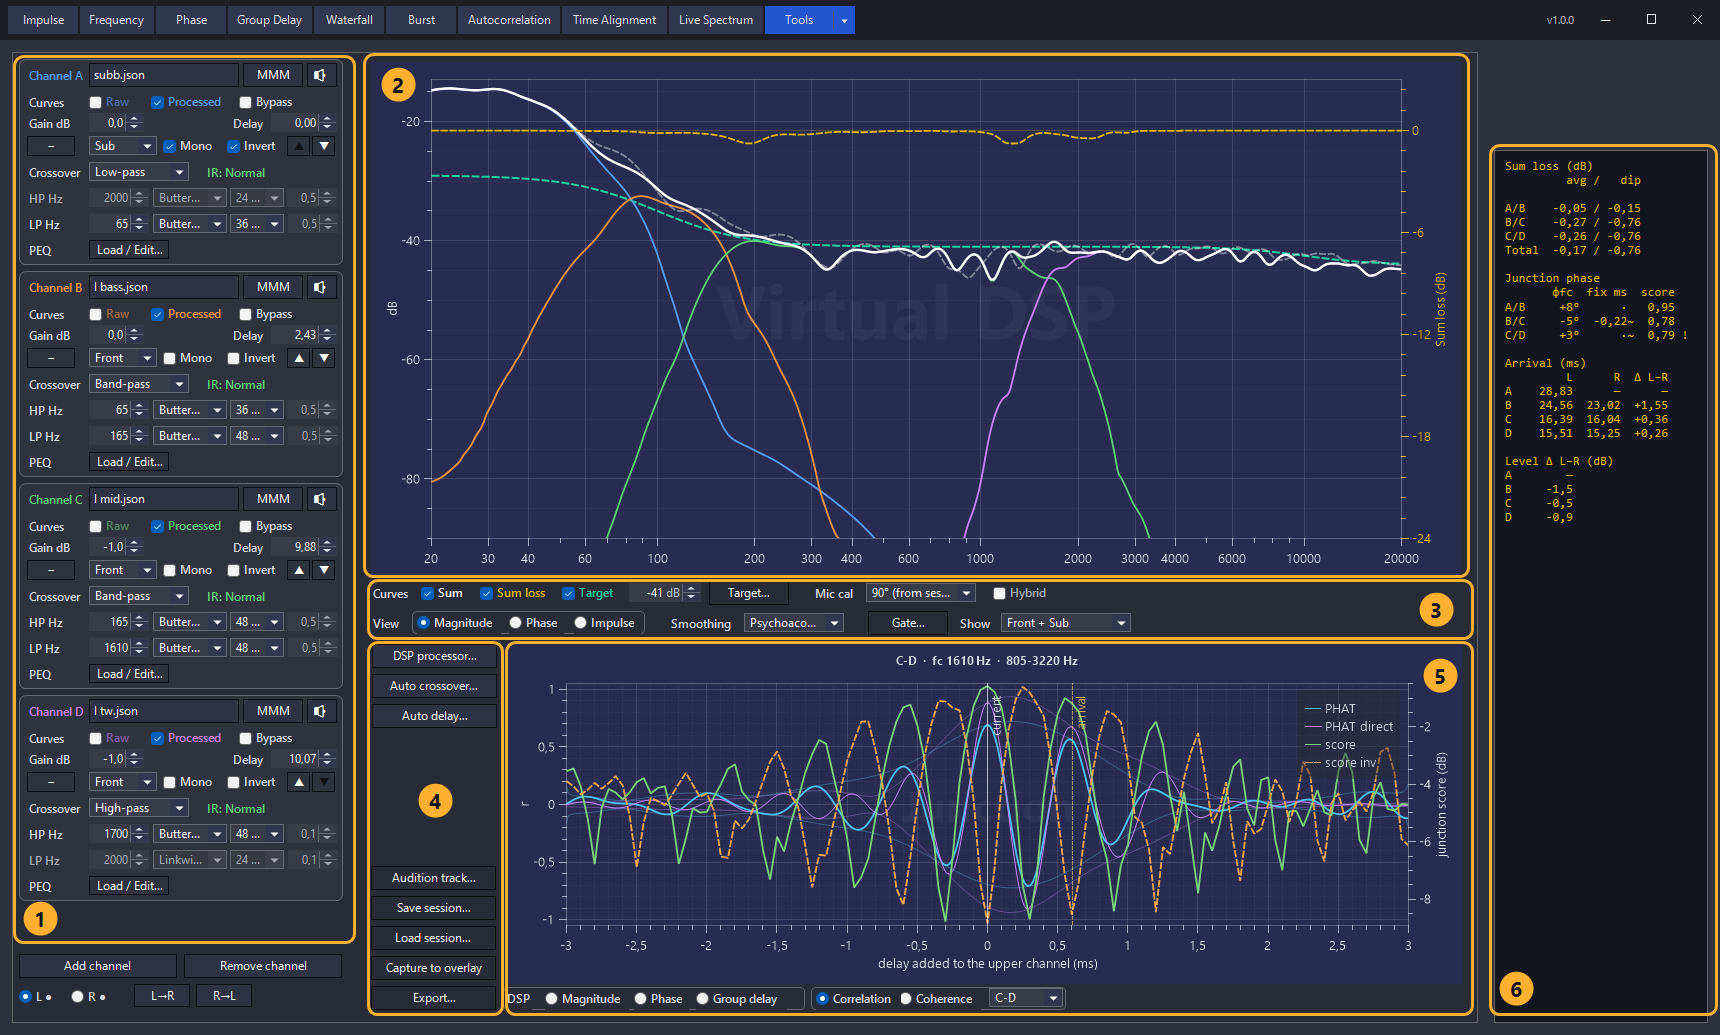
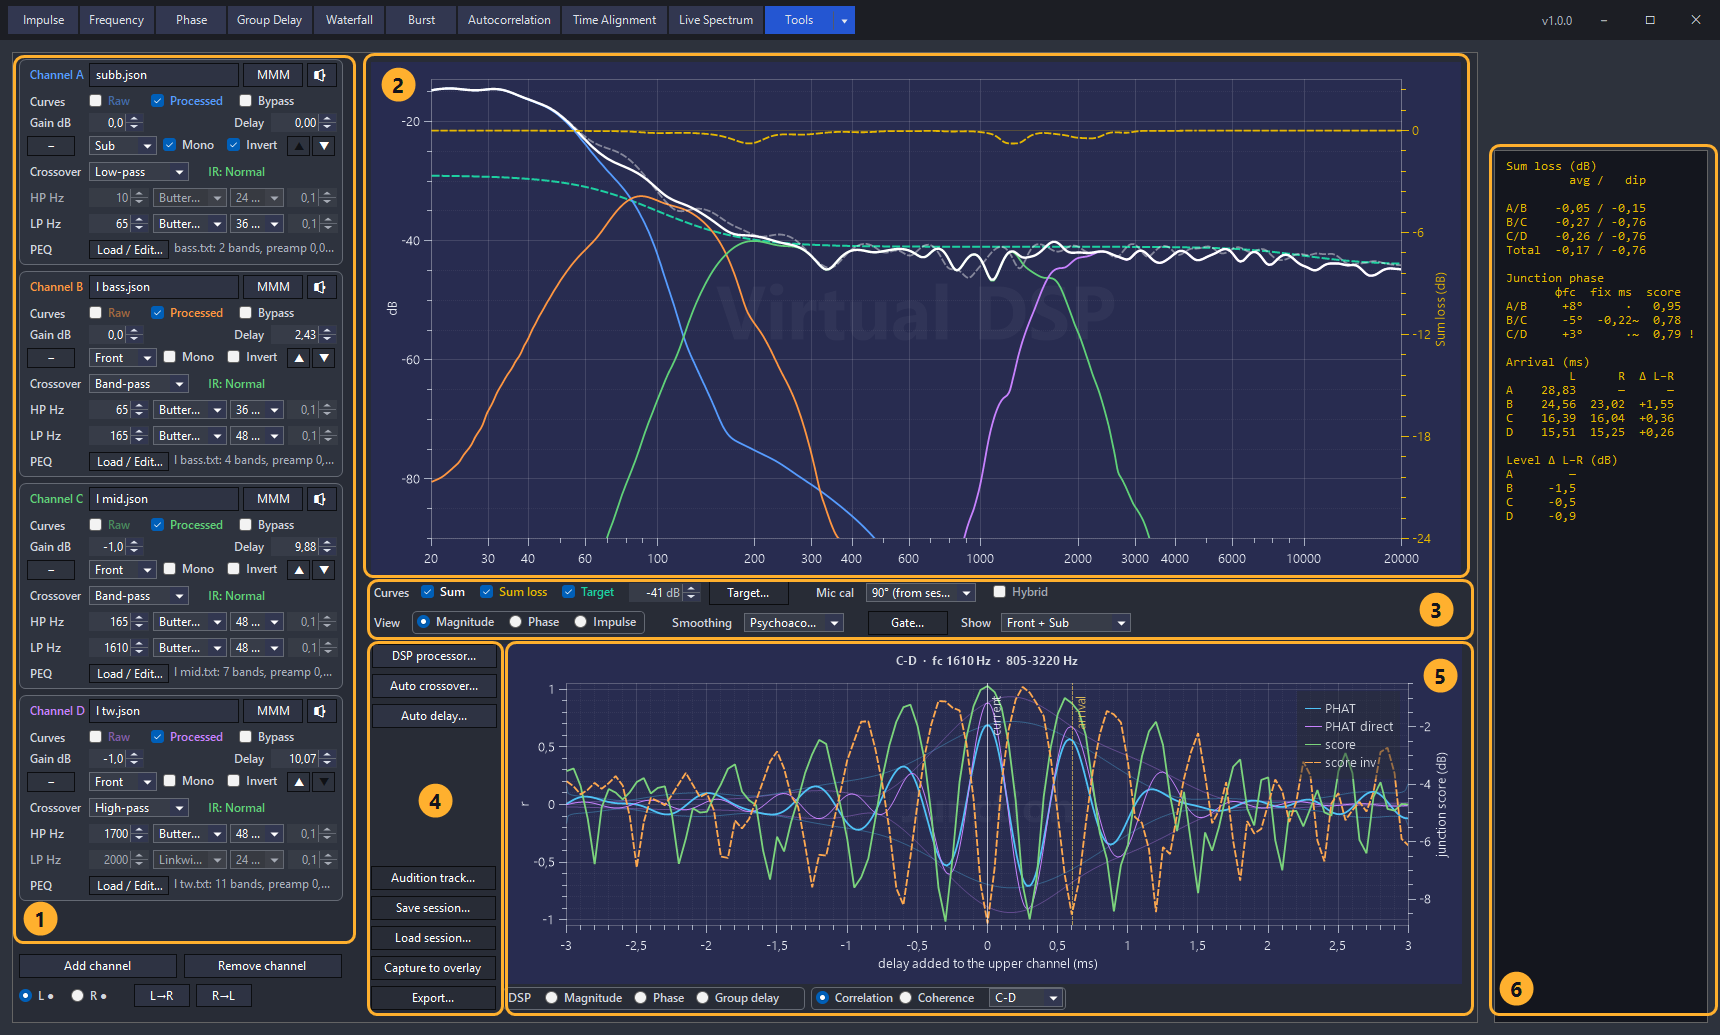
Shoot the figures of the application the user actually runs
The Virtual DSP figure came back from the re-shoot with the PEQ read-out
blank on every block, where it used to name the loaded profile. I reported
that as a regression somebody else had merged. It was not: the application
has been drawing it all along, and the tool was not drawing the application.

Program.cs calls ApplicationConfiguration.Initialize(), which among other
things sets the default text renderer to GDI. The screenshot tool sets visual
styles and the DPI mode by hand and never called it, so every control it
built took the GDI+ renderer instead. The two measure differently, and one
label fell through the gap: AutoEllipsis on a fixed-size label asks GDI+ for
StringFormatFlags.LineLimit — draw only the lines that fit ENTIRELY — and the
box is 15 pixels around a 16-pixel line, so no line fitted and nothing was
drawn at all. The control still reported its text, its colour and Visible,
which is why it took a pixel count to see. Under GDI the same box clips the
descenders and shows the text, which is what everyone but the tool sees.

So the tool initialises text rendering the way the app does, and its figures
are of the app again. Proved by re-shooting with ONLY that change: the
read-out returns at the old 15-pixel height.

The three fixed-size ellipsis labels in the app — the block's PEQ read-out and
the Audition dialog's two file names — are given room for their line anyway. A
box under its own line height is wrong under either renderer, and it is a trap
[…]

diff --git a/tests/Resonalyze.App.Tests/EllipsisLabelHeightTests.cs b/tests/Resonalyze.App.Tests/EllipsisLabelHeightTests.cs
@@ -1,0 +1,92 @@
+using System.Windows.Forms;
+
+namespace Resonalyze.App.Tests;
+
+/// <summary>
+/// A label that clips its text with an ellipsis must be at least as tall as one
+/// line of its own font.
+/// </summary>
+/// <remarks>
+/// <see cref="Label.AutoEllipsis"/> on a fixed-size label asks GDI+ for
+/// <c>StringFormatFlags.LineLimit</c>: draw only the lines that fit ENTIRELY
+/// inside the layout rectangle. A box one pixel shorter than the line height
+/// therefore does not clip the descenders — it draws NOTHING, silently, and the
+/// control still reports its Text, its ForeColor and Visible = true. Nothing
+/// short of looking at the pixels tells you.
+/// <para>
+/// That is how the Virtual DSP block's PEQ read-out and the Audition dialog's two
+/// file names went blank: 15-pixel boxes around a Segoe UI 9pt line that measures
+/// 16. Height and font scale together with the display, so a box that clears the
+/// line at 96 DPI clears it everywhere — which is exactly what this asserts.
+/// </para>
+/// </remarks>
+public sealed class EllipsisLabelHeightTests
+{
+    // The controls that carry such a label and can be built without a session,
+    // an audio device or the whole shell.
+    public static TheoryData<string> Hosts() =>
+        new()
+        {
+            nameof(VirtualCrossoverChannelControl),
+            nameof(VirtualCrossoverAuditionDialog)
+        };
+
+    private static Control Build(string name) => name switch
+    {
+        nameof(VirtualCrossoverChannelControl) => new VirtualCrossoverChannelControl(),
+        nameof(VirtualCrossoverAuditionDialog) =>
+            new VirtualCrossoverAuditionDialog(new VirtualCrossoverAuditionContext(
+                LeftSum: [System.Numerics.Complex.One],
+                RightSum: [System.Numerics.Complex.One],
+                SampleRate: 48_000,
+                LeftChannelCount: 1,
+                RightChannelCount: 1,
+                BorrowedSide: null,
+                CalibrationResolver: null,
+                CalibrationEntries: [],
+                InitialCalibrationId: null,
+                OwnCalibration: new VirtualCrossoverAuditionOwnCalibration(null, null, null),
+                SpatialAverage: null,
+                SpatialAverageReason: null)),
+        _ => throw new ArgumentOutOfRangeException(nameof(name), name, "unknown host")
+    };
+
+    private static IEnumerable<Control> Descendants(Control root)
+    {
+        foreach (Control child in root.Controls)
+        {
+            yield return child;
+            foreach (Control descendant in Descendants(child))
+            {
+                yield return descendant;
+            }
+        }
+    }
+
+    [Theory]
+    [MemberData(nameof(Hosts))]
+    public void AnEllipsisLabelHasRoomForItsOwnLine(string host)
+    {
+        StaTest.Run(() =>
+        {
+            using Control root = Build(host);
+            var checkedAny = false;
+            foreach (Control control in Descendants(root))
+            {
+                if (control is not Label { AutoEllipsis: true, AutoSize: false } label)
+                {
+                    continue;
+                }
+
+                checkedAny = true;
+                Assert.True(
+                    label.Height >= label.Font.Height,
+                    $"{host}.{label.Name} is {label.Height} px tall around a " +
+                    $"{label.Font.Height} px line of {label.Font.Name} " +
+                    $"{label.Font.SizeInPoints}pt, so it draws nothing at all.");
+            }
+
+            Assert.True(checkedAny, $"{host} carries no fixed-size ellipsis label any more.");
+        });
+    }
+}

diff --git a/source/Tools/VirtualCrossover/VirtualCrossoverAuditionDialog.Designer.cs b/source/Tools/VirtualCrossover/VirtualCrossoverAuditionDialog.Designer.cs
@@ -75,9 +75,9 @@ namespace Resonalyze
             labelSourceFile.Anchor = AnchorStyles.Top | AnchorStyles.Left | AnchorStyles.Right;
             labelSourceFile.AutoEllipsis = true;
             labelSourceFile.ForeColor = Color.FromArgb(185, 190, 200);
-            labelSourceFile.Location = new Point(224, 19);
+            labelSourceFile.Location = new Point(224, 17);
             labelSourceFile.Name = "labelSourceFile";
-            labelSourceFile.Size = new Size(360, 15);
+            labelSourceFile.Size = new Size(360, 19);
             labelSourceFile.TabIndex = 2;
             labelSourceFile.Text = "no file chosen";
             // 
@@ -108,9 +108,9 @@ namespace Resonalyze
             labelTargetFile.Anchor = AnchorStyles.Top | AnchorStyles.Left | AnchorStyles.Right;
             labelTargetFile.AutoEllipsis = true;
             labelTargetFile.ForeColor = Color.FromArgb(185, 190, 200);
-            labelTargetFile.Location = new Point(224, 51);
+            labelTargetFile.Location = new Point(224, 49);
             labelTargetFile.Name = "labelTargetFile";
-            labelTargetFile.Size = new Size(360, 15);
+            labelTargetFile.Size = new Size(360, 19);
             labelTargetFile.TabIndex = 5;
             labelTargetFile.Text = "no file chosen";
             // 

diff --git a/tools/Resonalyze.Screenshots/Program.cs b/tools/Resonalyze.Screenshots/Program.cs
@@ -73,6 +73,14 @@ static int Run(string[] args)
 
     Application.EnableVisualStyles();
     Application.SetHighDpiMode(HighDpiMode.SystemAware);
+    // The whole point of this tool is that the figures are of the application the
+    // user runs, and text rendering is not a detail of that. Program.cs gets this
+    // from ApplicationConfiguration.Initialize(); without it every control here is
+    // built for GDI+ instead of GDI, which measures differently — a fixed-size
+    // AutoEllipsis label whose box is a pixel under its line height then draws
+    // NOTHING (StringFormatFlags.LineLimit), and the figure quietly loses a
+    // read-out the application shows. Must precede the first window.
+    Application.SetCompatibleTextRenderingDefault(false);
     Console.WriteLine($"Writing to {config.OutputRoot}");
 
     bool failed = false;

diff --git a/source/Tools/VirtualCrossover/VirtualCrossoverChannelControl.Designer.cs b/source/Tools/VirtualCrossover/VirtualCrossoverChannelControl.Designer.cs
@@ -380,9 +380,9 @@
             // 
             labelPeqInfo.AutoEllipsis = true;
             labelPeqInfo.ForeColor = Color.FromArgb(170, 176, 190);
-            labelPeqInfo.Location = new Point(152, 183);
+            labelPeqInfo.Location = new Point(152, 181);
             labelPeqInfo.Name = "labelPeqInfo";
-            labelPeqInfo.Size = new Size(167, 15);
+            labelPeqInfo.Size = new Size(167, 19);
             labelPeqInfo.TabIndex = 21;
             labelPeqInfo.Text = "No PEQ";
             // 
